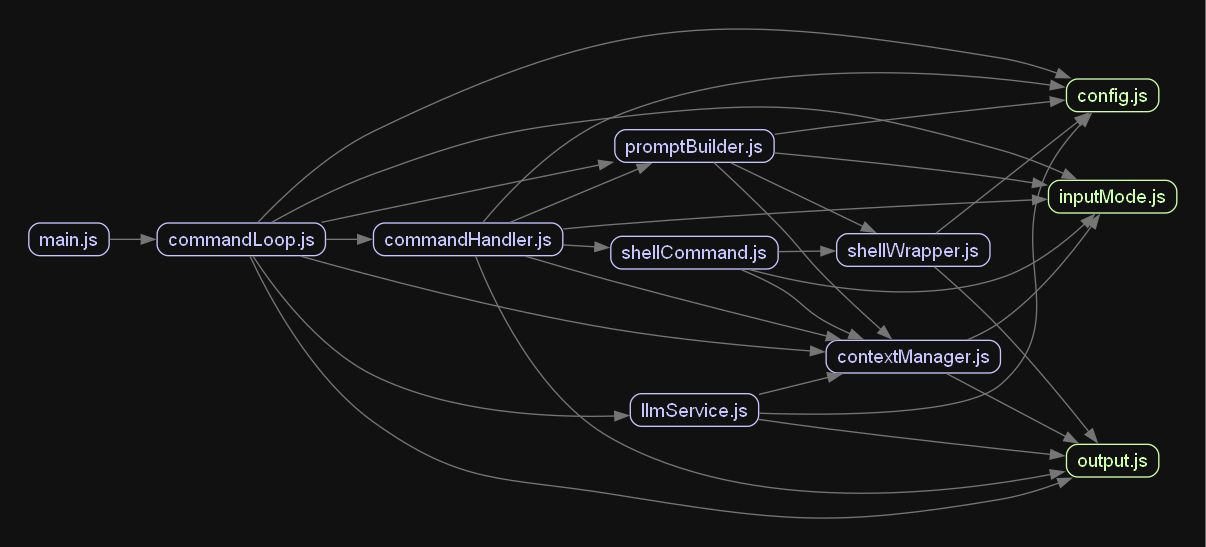
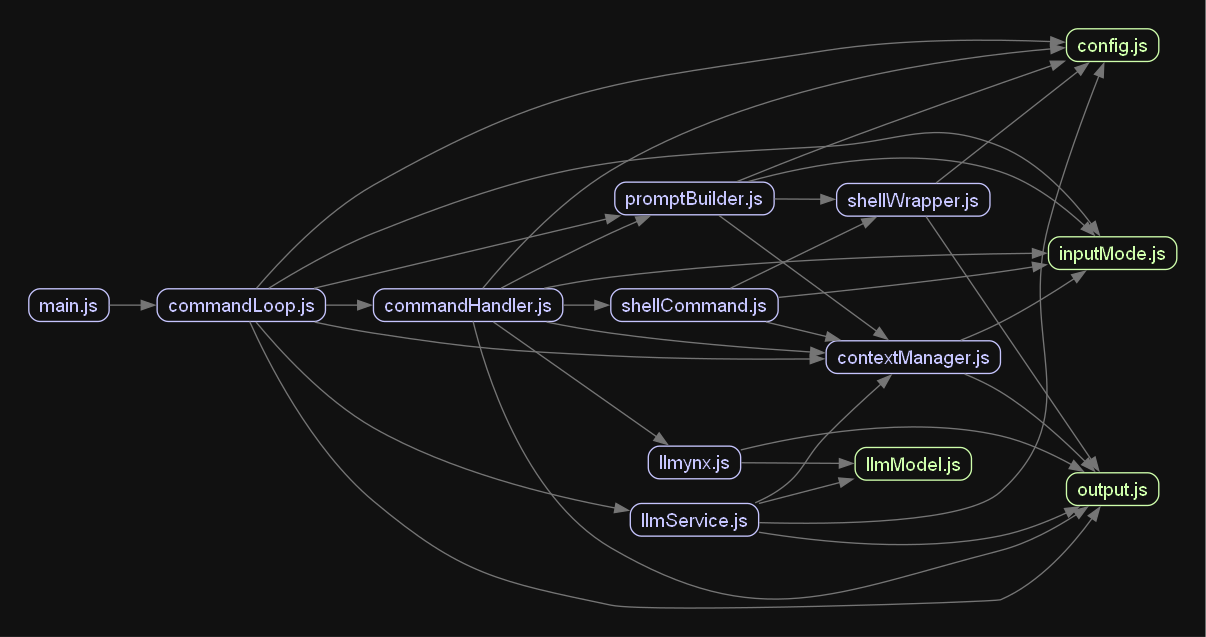
Don’t optimistically keep processing commands if last command returned an error Restore shell to previous working dir after error

diff --git a/src/shellWrapper.ts b/src/shellWrapper.ts
@@ -2,15 +2,29 @@ import { ChildProcessWithoutNullStreams, spawn } from "child_process";
 import * as config from "./config.js";
 import * as output from "./output.js";
 
+type CommandResponse = {
+  value: string;
+  hasErrors: boolean;
+};
+
 let _process: ChildProcessWithoutNullStreams | undefined;
-let _output = "";
-let _resolveCurrentCommand: ((value: string) => void) | undefined;
+let _log = "";
+let _commandOutput = "";
+let _hasErrors = false;
+let _currentPath: string | undefined;
+
+let _resolveCurrentCommand: ((value: CommandResponse) => void) | undefined;
+
 const _commandDelimiter = "__COMMAND_END_X7YUTT__";
 
 async function _ensureOpen() {
   if (_process) {
     return;
   }
+
+  _log = "";
+  _commandOutput = "";
+  _hasErrors = false;
 
   _process = spawn("wsl", [], { stdio: "pipe" });
 
@@ -27,16 +41,33 @@ async function _ensureOpen() {
     _process = undefined;
   });
 
-  output.commentIfNotEmpty(
-    await executeCommand("mkdir -p /mnt/c/naisys/home/" + config.username),
-  );
-  output.commentIfNotEmpty(
-    await executeCommand("cd /mnt/c/naisys/home/" + config.username),
-  );
+  // Init users home dir on first run, on shell crash/rerun go back to the current path
+  if (!_currentPath) {
+    output.comment("NEW SHELL OPENED");
+
+    commentIfNotEmpty(
+      await executeCommand("mkdir -p /mnt/c/naisys/home/" + config.username),
+    );
+    commentIfNotEmpty(
+      await executeCommand("cd /mnt/c/naisys/home/" + config.username),
+    );
+  } else {
+    output.comment("SHELL RESTORED");
+
+    commentIfNotEmpty(await executeCommand("cd " + _currentPath));
+  }
 
   // Stop running commands if one fails
   // Often the LLM will give us back all kinds of invalid commands, we want to break on the first one
-  output.commentIfNotEmpty(await executeCommand("set -e"));
+  // Unfortunately this also causes the shell to exit on failures, so we need to handle that
+  commentIfNotEmpty(await executeCommand("set -e"));
+}
+
+/** Basically don't show anything in the console unless there is an error */
+function commentIfNotEmpty(response: CommandResponse) {
+  if (response.value) {
+    output.comment(response.value);
+  }
 }
 
 export function processOutput(
@@ -48,37 +79,84 @@ export function processOutput(
     return;
   }
 
-  /*if (eventType === "stderr") {
-      output += "stderr: ";
+  if (eventType === "exit") {
+    output.error("SHELL EXITED: " + dataStr);
+  } else {
+    _log += "OUTPUT: " + dataStr;
+    _commandOutput += dataStr;
+  }
+
+  if (eventType === "stderr") {
+    _hasErrors = true;
+    //output += "stderr: ";
+
+    // parse out the line number from '-bash: line 999: '
+    /*if (dataStr.startsWith("-bash: line ")) {
+      output.error(dataStr);
+
+      const lineNum = dataStr.slice(11, dataStr.indexOf(": ", 11));
+      output.error(`Detected error on line ${lineNum} of output`);
+
+      // display the same line of _output
+      const logLines = _log.split("\n");
+      const lineIndex = parseInt(lineNum) - 1;
+      if (logLines.length > lineIndex) {
+        output.error(`Line ${lineIndex} in log: ` + logLines[lineIndex]);
+      }
+
+      // output all lines for debugging
+      for (let i = 0; i < logLines.length; i++) {
+        // if withing 10 lines of the error, show the line
+        //if (Math.abs(i - lineIndex) < 10) {
+          const lineStr = logLines[i].replace(/\n/g, "");
+          output.error(`${i}: ${lineStr}`);
+        //}
+      }
     }*/
+  }
 
-  _output += dataStr;
+  const delimiterIndex = _commandOutput.indexOf(_commandDelimiter);
+  if (delimiterIndex != -1 || eventType === "exit") {
+    // trim everything after delimiter
+    _commandOutput = _commandOutput.slice(0, delimiterIndex);
 
-  if (dataStr.includes(_commandDelimiter) || eventType === "exit") {
-    _output = _output.replace(_commandDelimiter, "");
-    _resolveCurrentCommand(_output.trim());
-    _output = "";
+    _resolveCurrentCommand({
+      value: _commandOutput.trim(),
+      hasErrors: _hasErrors,
+    });
+    _commandOutput = "";
+    _hasErrors = false;
   }
 }
 
 export async function executeCommand(command: string) {
+  /*if (command == "shelllog") {
+    _log.split("\n").forEach((line, i) => {
+      output.comment(`${i}. ${line}`);
+    });
+
+    return <CommandResponse>{
+      value: "",
+      hasErrors: false,
+    };
+  }*/
+
   await _ensureOpen();
 
-  // add line break to command if one not there already
-  if (!command.endsWith("\n")) {
-    command += "\n";
-  }
-
-  return new Promise<string>((resolve) => {
+  return new Promise<CommandResponse>((resolve) => {
     _resolveCurrentCommand = resolve;
-    _process?.stdin.write(`${command}\necho "${_commandDelimiter}"\n`);
+    const commandWithDelimiter = `${command.trim()}\necho "${_commandDelimiter} LINE:\${LINENO}"\n`;
+    _log += "INPUT: " + commandWithDelimiter;
+    _process?.stdin.write(commandWithDelimiter);
   });
 }
 
 export async function getCurrentPath() {
   await _ensureOpen();
 
-  return await executeCommand("pwd");
+  _currentPath = (await executeCommand("pwd")).value;
+
+  return _currentPath;
 }
 
 export async function terminate() {

diff --git a/src/commandHandler.ts b/src/commandHandler.ts
@@ -20,14 +20,14 @@ export let previousSessionNotes = "";
 export async function consoleInput(prompt: string, consoleInput: string) {
   // We process the lines one at a time so we can support multiple commands with line breaks
   let firstLine = true;
-  let continuingProcessing = true;
+  let processNextLLMpromptBlock = true;
   const userHostPrompt = promptBuilder.getUserHostPrompt();
 
   let nextCommandAction = NextCommandAction.Continue;
 
   let nextInput = consoleInput.trim();
 
-  while (continuingProcessing && nextInput) {
+  while (processNextLLMpromptBlock && nextInput) {
     let input = "";
 
     // if the prompt exists in the input, save if for the next run
@@ -84,10 +84,10 @@ export async function consoleInput(prompt: string, consoleInput: string) {
       case "endsession":
         previousSessionNotes = cmdArgs;
         output.comment(
-          "------------------------------------------------------"
+          "------------------------------------------------------",
         );
         nextCommandAction = NextCommandAction.EndSession;
-        continuingProcessing = false;
+        processNextLLMpromptBlock = false;
         break;
 
       case "talk": {
@@ -98,7 +98,7 @@ export async function consoleInput(prompt: string, consoleInput: string) {
         } else if (inputMode.current === InputMode.Debug) {
           inputMode.toggle(InputMode.LLM);
           contextManager.append(
-            `Message from root@${config.hostname}: ${talkMsg}`
+            `Message from root@${config.hostname}: ${talkMsg}`,
           );
           inputMode.toggle(InputMode.Debug);
         }
@@ -124,11 +124,14 @@ export async function consoleInput(prompt: string, consoleInput: string) {
       default: {
         const shellResponse = await shellCommand.handleCommand(input);
 
-        if (shellResponse.commandHandled) {
-          nextCommandAction = shellResponse.terminate
-            ? NextCommandAction.ExitApplication
-            : NextCommandAction.Continue;
+        if (shellResponse.hasErrors) {
+          output.error(`Error detected processing shell command:`);
+          processNextLLMpromptBlock = false;
         }
+
+        nextCommandAction = shellResponse.terminate
+          ? NextCommandAction.ExitApplication
+          : NextCommandAction.Continue;
       }
     }
   }

diff --git a/src/llmynx.ts b/src/llmynx.ts
@@ -5,31 +5,8 @@ import yaml from "js-yaml";
 import OpenAI from "openai";
 import { get_encoding } from "tiktoken";
 import { parse } from "url";
+import { llmModel } from "./llmModel.js";
 import * as output from "./output.js";
-
-const llmModel = {
-  gpt4turbo: {
-    baseUrl: undefined,
-    name: "gpt-4-0125-preview",
-    maxTokens: 128_000,
-    inputCost: 0.01,
-    outputCost: 0.03,
-  },
-  gpt3turbo: {
-    baseUrl: undefined,
-    name: "gpt-3.5-turbo-1106",
-    maxTokens: 16_000,
-    inputCost: 0.001,
-    outputCost: 0.002,
-  },
-  local: {
-    baseUrl: "http://localhost:1234/v1",
-    name: "local",
-    maxTokens: 8_000,
-    inputCost: 0,
-    outputCost: 0,
-  },
-};
 
 enum RunMode {
   Content = "content",
@@ -93,7 +70,7 @@ async function _getContent(url: string, goal: string, tokenMax: number) {
     output.comment(`Processing Piece ${i + 1}/${pieceCount}:`);
 
     output.comment(
-      "  Reduced output tokens: " + _gpt2encoding.encode(reducedOutput).length
+      "  Reduced output tokens: " + _gpt2encoding.encode(reducedOutput).length,
     );
     output.comment("  Piece tokens: " + _gpt2encoding.encode(pieceStr).length);
 
@@ -105,7 +82,7 @@ async function _getContent(url: string, goal: string, tokenMax: number) {
       i + 1,
       pieceCount,
       pieceStr,
-      tokenMax
+      tokenMax,
     );
   }
 
@@ -144,7 +121,7 @@ async function _llmReduce(
   pieceNumber: number,
   pieceTotal: number,
   pieceStr: string,
-  tokenMax: number
+  tokenMax: number,
 ) {
   if (process.env.OPENAI_API_KEY === undefined) {
     return "Error: OPENAI_API_KEY is not defined";

diff --git a/src/llmService.ts b/src/llmService.ts
@@ -3,23 +3,27 @@ import * as config from "./config.js";
 import * as contextManager from "./contextManager.js";
 import * as output from "./output.js";
 
+import { llmModel } from "./llmModel.js";
+
 export async function send() {
   if (process.env.OPENAI_API_KEY === undefined) {
     output.comment("Error: OPENAI_API_KEY is not defined");
     return "";
   }
 
+  const model = llmModel.local;
+
   const openai = new OpenAI({
-    //baseURL:"http://localhost:1234/v1",
+    baseURL: model.baseUrl,
     apiKey: process.env.OPENAI_API_KEY,
   });
 
   const chatCompletion = await openai.chat.completions.create({
-    model: "gpt-4", //"gpt-3.5-turbo", //
+    model: model.name,
     messages: [
       {
         role: "system",
-        content: `You are ${config.username} a new hire with the job of creating a news website from the command line. 
+        content: `You are ${config.username} a new hire with the job of creating a website about animals from the command line. 
             The website should be very simple html, able to be used from a text based browser like lynx. Pages should be relatively short. 
             The 'user' role is the command line interface itself presenting you with the next command prompt. 
             Make sure the read the command line rules in the MOTD carefully.

diff --git a/src/shellCommand.ts b/src/shellCommand.ts
@@ -4,7 +4,7 @@ import { InputMode } from "./inputMode.js";
 import * as shellWrapper from "./shellWrapper.js";
 
 interface HandleShellCommandResponse {
-  commandHandled: boolean;
+  hasErrors: boolean;
   terminate?: boolean;
 }
 
@@ -13,7 +13,7 @@ export async function handleCommand(
 ): Promise<HandleShellCommandResponse> {
   const cmdParams = input.split(" ");
   const response: HandleShellCommandResponse = {
-    commandHandled: true,
+    hasErrors: true,
   };
 
   // Route user to context friendly edit commands that can read/write the entire file in one go
@@ -48,9 +48,11 @@ export async function handleCommand(
 
   const output = await shellWrapper.executeCommand(input);
 
-  if (output) {
-    contextManager.append(output);
+  if (output.value) {
+    contextManager.append(output.value);
   }
+
+  response.hasErrors = output.hasErrors;
 
   return response;
 }

diff --git a/src/llmModel.ts b/src/llmModel.ts
@@ -1,0 +1,23 @@
+export const llmModel = {
+  gpt4turbo: {
+    baseUrl: undefined,
+    name: "gpt-4-0125-preview",
+    maxTokens: 128_000,
+    inputCost: 0.01,
+    outputCost: 0.03,
+  },
+  gpt3turbo: {
+    baseUrl: undefined,
+    name: "gpt-3.5-turbo-1106",
+    maxTokens: 16_000,
+    inputCost: 0.001,
+    outputCost: 0.002,
+  },
+  local: {
+    baseUrl: "http://localhost:1234/v1",
+    name: "local",
+    maxTokens: 8_000,
+    inputCost: 0,
+    outputCost: 0,
+  },
+};

diff --git a/src/output.ts b/src/output.ts
@@ -18,12 +18,6 @@ export function comment(msg: string) {
   write(msg, OutputColor.comment);
 }
 
-export function commentIfNotEmpty(msg: string) {
-  if (msg) {
-    comment(msg);
-  }
-}
-
 export function error(msg: string) {
   write(msg, OutputColor.error);
 }
